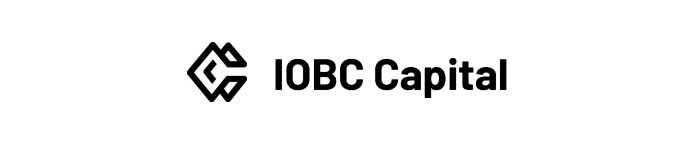
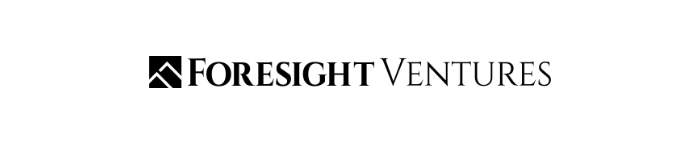
style: update partners & hide link

Changed region(s): [[0.21, 0.2778, 0.81, 0.7222]]

diff --git a/src/components/layout/Header/config.jsx b/src/components/layout/Header/config.jsx
@@ -1,11 +1,7 @@
 import Telegram from '@/assets/imgs/header/Navigation-Bar/telegram.svg';
 import Twitter from '@/assets/imgs/header/Navigation-Bar/twitter.svg';
-import { IconGithubLogo } from '@douyinfe/semi-icons';
-import classNames from 'classnames';
 // import Quora from '@/assets/imgs/header/Navigation-Bar/quora.svg';
 import Discord from '@/assets/imgs/header/Navigation-Bar/discord.svg';
-import Medium from '@/assets/imgs/header/Navigation-Bar/medium.svg';
-import IconYoutube from '@/assets/imgs/header/Navigation-Bar/youtube.svg';
 
 export const navs = [{
   text: 'Home',
@@ -32,31 +28,33 @@ export const platform = [{
   href: 'https://discord.gg/sQcS7Sh6ZD',
   com: Discord,
   text: 'Discord',
-}, {
-  href: 'https://medium.com/@contact_88042',
-  com: Medium,
-  text: 'Medium',
 },
-{
-  href: 'https://github.com/PublicAI01',
-  // eslint-disable-next-line react/no-unstable-nested-components
-  com: ({ width, className }) => (
-    <IconGithubLogo
-      className={classNames('text-[#D7D7D7]', className)}
-      style={{
-        fontSize: `${width}px`,
-      }}
-    />
-  ),
-  text: 'Github',
-},
+// {
+//   href: 'https://medium.com/@contact_88042',
+//   com: Medium,
+//   text: 'Medium',
+// },
+// {
+//   href: 'https://github.com/PublicAI01',
+//   // eslint-disable-next-line react/no-unstable-nested-components
+//   com: ({ width, className }) => (
+//     <IconGithubLogo
+//       className={classNames('text-[#D7D7D7]', className)}
+//       style={{
+//         fontSize: `${width}px`,
+//       }}
+//     />
+//   ),
+//   text: 'Github',
+// },
 {
   href: 'https://t.me/Public_AI',
   com: Telegram,
   text: 'Telegram',
 },
-{
-  href: 'https://www.youtube.com/@PublicAI_',
-  com: IconYoutube,
-  text: 'Youtube',
-}];
+// {
+//   href: 'https://www.youtube.com/@PublicAI_',
+//   com: IconYoutube,
+//   text: 'Youtube',
+// },
+];

diff --git a/src/pages/home/index.jsx b/src/pages/home/index.jsx
@@ -1,18 +1,17 @@
+import Aos from 'aos';
 import {
   useEffect, useMemo, useRef, useState,
 } from 'react';
-import Aos from 'aos';
 import ActiveFQContext from './ActiveFQContext';
-import { Footer } from './components/section/Footer';
 import FQ from './components/section/FQ';
+import { Footer } from './components/section/Footer';
 import Partners from './components/section/Partners';
 import Resource from './components/section/Resource';
 import Roadmap from './components/section/Roadmap';
+import Service from './components/section/Service';
 import Section1 from './components/section/section1';
 import Section2 from './components/section/section2';
 import Section3 from './components/section/section3';
-import Service from './components/section/Service';
-import News from './components/section/News';
 
 function Home() {
   const wrapRef = useRef();
@@ -80,7 +79,7 @@ function Home() {
         <Section3 />
         <Service />
         <Roadmap />
-        <News />
+        {/* <News /> */}
         <Partners />
         <FQ />
         <Resource />
